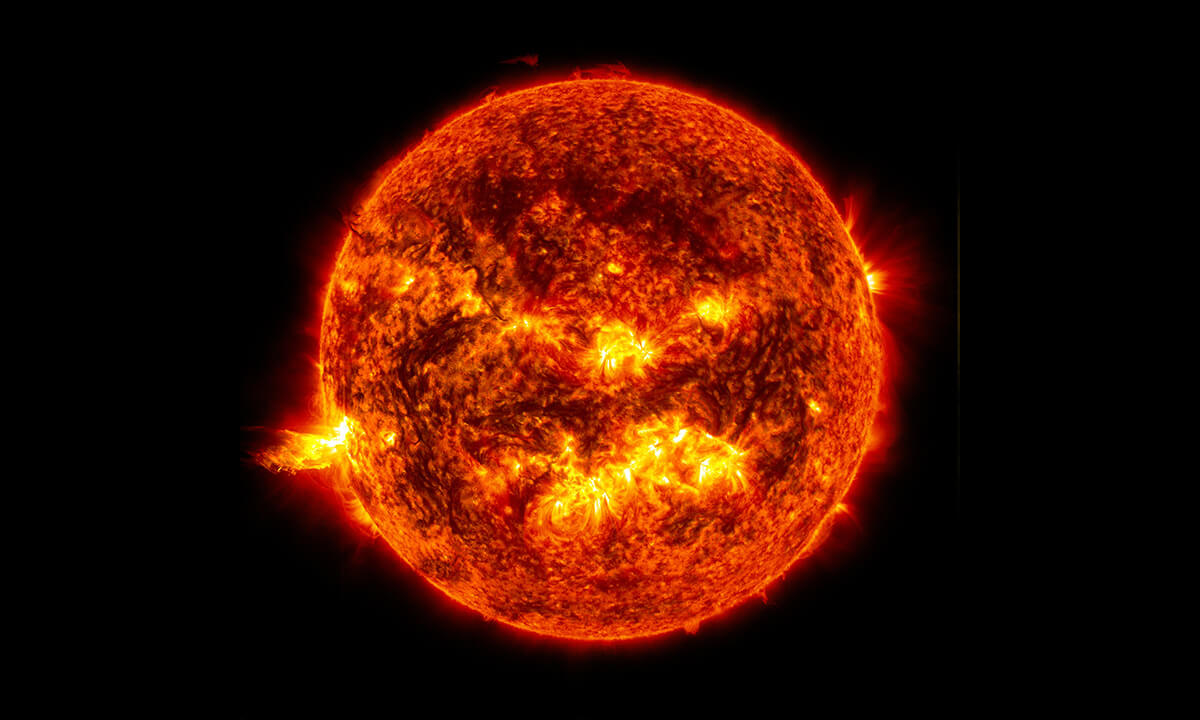
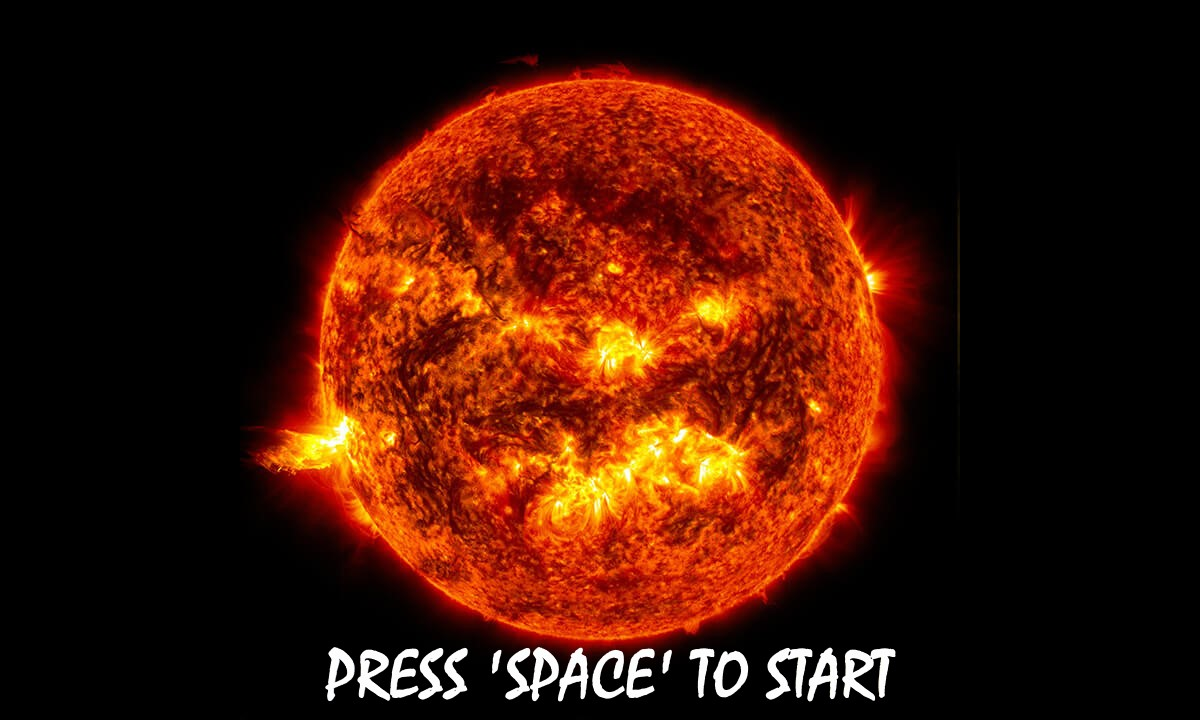
Added text to the start screen and the picture now fits on the screen correctly

diff --git a/core/src/com/core/startscreen/StartBackground.java b/core/src/com/core/startscreen/StartBackground.java
@@ -27,8 +27,8 @@ public class StartBackground{
 
     public StartBackground(StartScreen startScreen){
 
-        this.x = Boot.INSTANCE.getScreenWidth() / 2;
-        this.y = Boot.INSTANCE.getScreenHeight() / 2;
+        this.x = 0;
+        this.y = 0;
 
         this.texture = new Texture("solar-flare.jpg");
         this.startScreen = startScreen;
